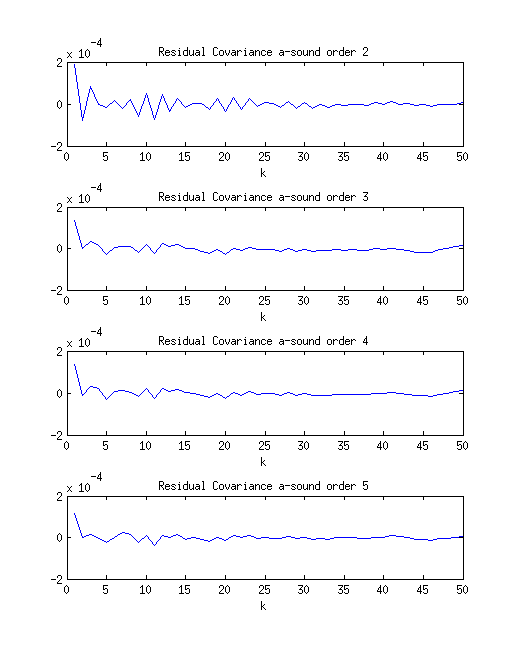
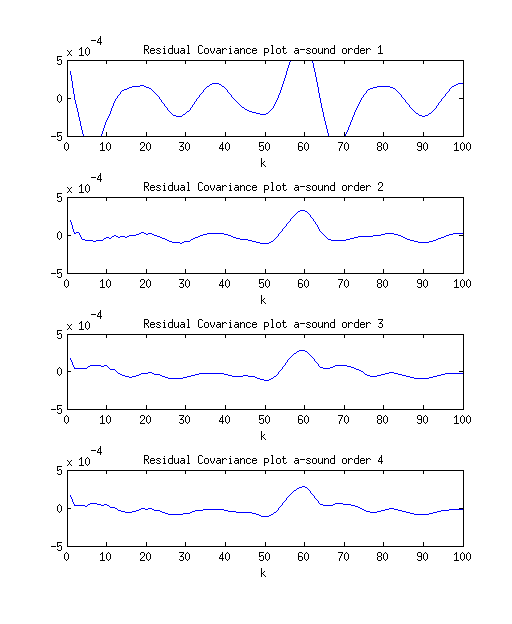
Skrivit lite mer blubb blubb

diff --git a/report.tex b/report.tex
@@ -132,31 +132,72 @@ The problem this time is that a good order for the model must be found.
 Different model orders need to be validated and compared.
 A good way to do this is splitting the available data into two sets one set is used to estimate the model and the other set is used for validation.
 Now there is a couple of ways of validating that the model order is well choosen.
+The ways choosen for this assignment was by calculating the loss function for validation data and by residual covariance plots.
 
+The loss function $W_N$ is the entity that is minimized by the AR-estimation.
+Let the loss function depend on n $W_N(n)$ where n is model order.
+If the loss function $W_N(n)$ is calculated for the estimation data it will always be less or equal than $W_N(n-1)$.
+When the model order increases the model with lower order is contained in the new model.
+That means that a higher order model can at least get the same loss function as a lower order model, by just choosing the lower order model.
+Since the loss function is minimized the loss function will always be less or equal than a lower order model.
+This means that it's hard to use this to choose a good model order.
+If the loss function is instead calculated for validation data it can be shown that the loss function has a minimum for the true model order.
+This means that the loss function for validation data can be used to estimate model order.
 
-The vowel that are estimated are voiced sounds.
-This means that a pulse train is a good input signal to the model.
+The residual covarince approach for model validation exploits the fact that an AR model is filtering white noise.
+This means that if the inverse filter is applied to validation data the result should be white noise.
+Let this inverse filterd data be $\epsilon(t)$ then $R_{\epsilon \epsilon}(\tau) = \lambda\delta(t)$.
+Since $\epsilon(t)$ is white noise $R_{\epsilon y}(\tau) = E\epsilon(t) y(t-\tau) = 0$ for $\tau > 0$.
+This can then be used for validation of models.
+The estimation of $R_{\epsilon y}(\tau)$ should not be to far from zero.
 
 \subsection{Practical Execution}
+To get data to use in the assignment two sounds are recorded one with an a-sound and one with an o-sound.
+The recordings are each two seconds long.
+These files are then imported into Matlab and the means of the signals is removed.
+The signals are then split into estimation and validation data.
+The DFT of the is then generated and plotted.
+DFTs can be used to get a rough estimate of model order by counting the number of peaks in them.
+Each pair of complex-conjugated poles of the AR model will create a peak in the model spectrum.
+This means that counting the peaks in the spectrum and multiplying by two will be an estimate of the model order.
+These DFTs are presented in figure \ref{vowel_DFT}.
+The a-sound has three more prounounced peaks that are about the same height, there are also a few smaller peaks at higher frequencies.
+The o-sound has one peak that are higher than the others then there are two more peaks that are a bit smaller.
+This is an indication that the a-sound probably needs a higher order model than the o-sound.
+
+After this an AR-model is estimated for orders 1-20 and the loss function of the validation data is plotted with respect to model order.
+The result can be seen in figure \ref{loss_function}.
+The 
+
 
 \subsection{Results}
 
 \begin{figure}[H]
-\centering
-\includegraphics[width=14cm]{residual_covariance_a.png}
-\caption{The residual variance as a function of model order (Knee function)}
+  \centering
+  \includegraphics[width=14cm]{vowel_fft.png}
+  \caption{
+    \label{vowel_DFT}
+    DFTs of the vowels.}
 \end{figure}
 
 \begin{figure}[H]
-\centering
-\includegraphics[width=14cm]{residual_covariance_a.png}
-\caption{The residual covariance of different model orders for the a-sound}
+  \centering
+  \includegraphics[width=14cm]{loss_function_validation.png}
+  \caption{
+    \label{loss_function}
+    The loss function as a function of model order}
 \end{figure}
 
 \begin{figure}[H]
-\centering
-\includegraphics[width=14cm]{residual_covariance_o.png}
-\caption{The residual covariance of different model orders for the o-sound}
+  \centering
+  \includegraphics[width=14cm]{residual_covariance_a.png}
+  \caption{The residual covariance of different model orders for the a-sound}
+\end{figure}
+
+\begin{figure}[H]
+  \centering
+  \includegraphics[width=14cm]{residual_covariance_o.png}
+  \caption{The residual covariance of different model orders for the o-sound}
 \end{figure}
 
 \section{Sentence}

diff --git a/linwovel.m b/linwovel.m
@@ -44,46 +44,55 @@ resoo = [];
 for na = (1:20)
     m = ar(aa_est, na);
     residual = filter(m.a, 1, aa_val);
-    varaa = [varaa residual*residual'/(aa_val*aa_val')];%length(residual)
+    varaa = [varaa residual*residual'/(aa_val*aa_val')];
     resaa = [resaa residual'];
     
     m = ar(oo_est, na);
     residual = filter(m.a, 1, oo_val);
-    varoo = [varoo residual*residual'/(oo_val*oo_val')];%length(residual)
+    varoo = [varoo residual*residual'/(oo_val*oo_val')];
     resoo = [resoo residual'];
-    %subplot(2, 1, 1);
-    %plot(aa_val)
-    %subplot(2, 1, 2);
-    %plot(residual)
 end
+
+% Plot loss function for different model orders.
 figure(2);
 subplot(2,1,1);
 plot(varaa);
-title('Residual Variance a-sound');
+title('Loss function of validation data a-sound');
 ylabel('Variance');
 xlabel('Model Order');
 subplot(2,1,2);
 plot(varoo);
-title('Residual Variance o-sound');
+title('Loss function of validation data o-sound');
 ylabel('Variance');
 xlabel('Model Order');
 %%
-start = 55;
+
+% Calculate whiteness for whiteness test for different model orders.
+start = 17;
 for k = (start:start+4)
     figure(3);
     subplot(4,1,k-start+1);
     %covf([resaa(:,k); aa_val'])
     index = -len_val+1:len_val-1;
-    plot(index, xcorr(resaa(:,k), aa_val'));
-    title(sprintf('Residual Covariance a-sound order %d', k));
+    %plot(index, xcorr(resaa(:,k), aa_val'));
+    %plot(resaa(:,k));
+    caa =covf([resaa(:,k) aa_val'], 100);%/sqrt(var(resaa(:,k))*var(aa_val')); 
+    plot(caa(2,:)');
+    aa_max = max(xcorr(resaa(:,k), aa_val'))
+    title(sprintf('Residual Covariance plot a-sound order %d', k));
     %ylabel('Variance');
     xlabel('k');
+    ylim([-0.0005 0.0005]);
     figure(4);
     subplot(4,1,k-start+1);
-    plot(index, xcorr(resoo(:,k), oo_val'));
-    title(sprintf('Residual Covariance o-sound order %d', k));
+    %plot(index, xcorr(resoo(:,k), oo_val'));
+    %plot(resoo(:,k));
+    coo =covf([resoo(:,k) oo_val'], 100);%/sqrt(var(resoo(:,k))*var(oo_val')); 
+    plot(coo(2,:)');
+    title(sprintf('Residual Covariance plot o-sound order %d', k));
     %ylabel('Variance');
     xlabel('k');
+    ylim([-0.0005 0.0005]);
 end
 %%
 

diff --git a/linsentence.m b/linsentence.m
@@ -25,7 +25,7 @@ plot(lambada);
 %}
 %%
 
-na = 15;
+na = 8;
 cov = [];
 est = zeros(length(sen),1);
 delay = 0;
@@ -62,8 +62,8 @@ for i = 1:160:length(sen)-160
     end
     train = sqrt(A*(160/pulse))*(rem((1:160)+delay,pulse) == 1)';
     train = sqrt(A)*(rem((1:160)+delay,pulse) == 1)';
-    if A < 0.1 %+10 
-        train = 0.2*sqrt(mean(r))*randn(160, 1)+train;
+    if A < 0.1 +10 
+        train = 0.4*sqrt(mean(r))*randn(160, 1)+train;
     end
     alltrain = [alltrain train'];
     %train = train + sqrt(A2*(160/pulse2))*(rem((1:161),pulse2) == 1)';
